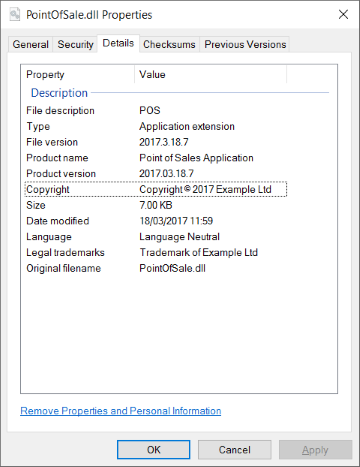
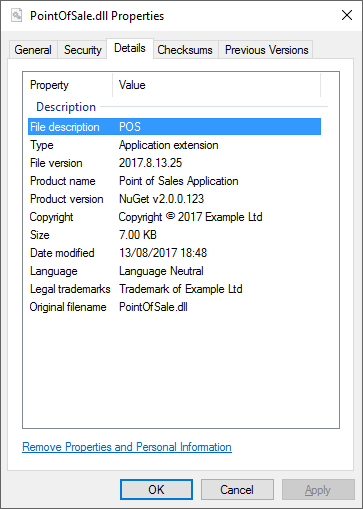
- Added support for .Net Core. - Added *Source Files* task parameter. - Added *Informational Version* task parameter. - Fixed issue with space between quotes and parenthesese [Issue #1]

diff --git a/README.md b/README.md
@@ -1,31 +1,36 @@
 # Assembly Info
 Assembly Info is an extension for Team Foundation Server / Team Services that sets assembly information from a build.
 
-The extension will search the specified **Source folder** for all AssemblyInfo.\* source files and set the manifest data. This will result in assembly (*.dll) files containing common assembly information.
+The extension will search the specified **Source Folder** for assembly info **Source Files** and set the manifest data. This will result in assembly (*.dll) files containing common assembly information.
 
 The following fields can be set:
 
 | Attribute | Function |
 |-----------|-----------|
-| Title | Provides a title name for the assembly. |
+| Title | Provides a friendly name for the assembly. |
 | Product | Provides the product information for the assembly. |
-| Description | Provides a detailed description of the product or modules that comprise the assembly. |
-| Company | Provides the company information for the assembly. |
+| Description | Provides a short description that summarizes the nature and purpose of the assembly. |
+| Company | Provides the company name for the assembly. |
 | Copyright | Provide the assembly or product copyright information. |
 | Trademark | Provides the assembly or product trademark information. |
-| Culture | Provides information on what language the assembly supports. |
+| Culture | Provides information on what culture the assembly supports. |
 | Configuration | Provides the build configuration for the assembly, such as debug or release. |
-| Version Number | Provides a version number for the application. |
-| File Version Number | Provides a file version number for the application. |
+| Version Number | Provides a assembly version for the application. |
+| File Version Number | Provides a file version for the application. |
 | Informational Version | Provides a text version for the application. |
 
 *If no value is specified for a particular field that field will be ignored and the default value in the AssemblyInfo source file will be used.*
+
+> For more information regarding assembly attributes please see the following [Microsoft Doc](https://docs.microsoft.com/en-us/dotnet/framework/app-domains/set-assembly-attributes)
 
 ## How to use the build task
 ### Configuration
 1. Create or edit a build definition.
 3. Click **Add build step...** and add the **Assembly Info** task from the Build category.
 4. Configure the task by providing values for the fields mentioned in the above table.  
+> Ensure you specify the file names you wish to populate within the **Source Files** field: -  
+> For .Net Framework specify files such as: AssemblyInfo.cs, AssemblyInfo.vb, GlobalInfo.cs  
+> For .Net Core specify the project file: Example.csproj
 
   ![Assembly Info task parameters](images/Task_Parameters.png)
 
@@ -64,7 +69,11 @@ Copyright © $(date:dd MMMM yyyy HH:mm tt) Example Ltd
 
 ## Release Notes
 > **v1.0.23**
-> - Added *Informational Version* task parameter.
+> - Added support for .Net Core.
+> - Added *Source Files* task parameter.
+> - Added *Informational Version* task parameter.  
+>  Thanks to [roryza](https://github.com/roryza) and [richardctrimble](https://github.com/richardctrimble).
+> - Fixed issue with space between quotes and parenthesese [Issue #1](https://github.com/BMuuN/vsts-assemblyinfo-task/issues/1).
 
 > **v1.0.22**
 > - Added *File Version* task parameter.
